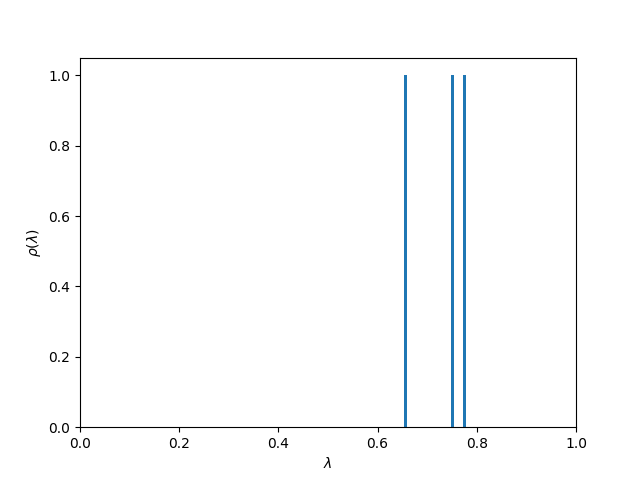
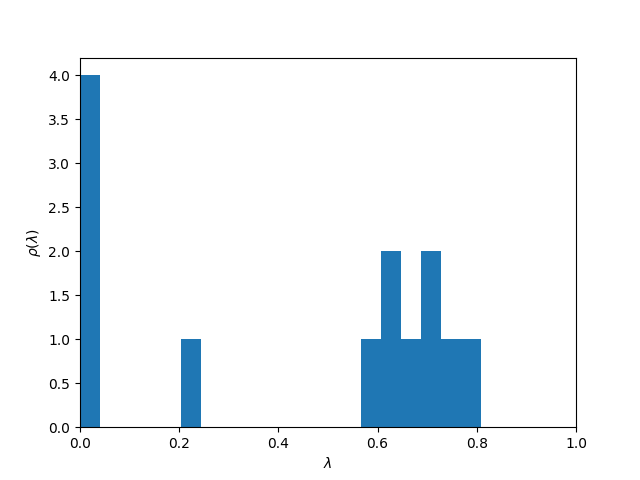
Improve Break when latching dies

diff --git a/lambda_analysis_sparse_matrices.py b/lambda_analysis_sparse_matrices.py
@@ -96,10 +96,12 @@ for iT in tqdm(range(nT)):
 
         if max_m_mu < .01:
             cpt_idle += 1
-            if cpt_idle > nT/10 and nT >= 1000:
+            if cpt_idle > nT/100 and nT >= 1000:
                 print("latchingDied")
                 l = tS[iT]
                 break
+        else:
+            cpt_idle = 0    
         ind_max_prev = ind_max
 Q = d12*l*eta
 

diff --git a/parameters.py b/parameters.py
@@ -8,7 +8,7 @@ from and their behavior
 
 # Integration
 dt = 0.5
-tSim = 2000
+tSim = 25000
 # objective : tSim = 50000
 
 # Network
@@ -25,7 +25,7 @@ a_pf = 0.00
 eps = 1.
 
 # Building network
-cm = 40
+cm = 45
 a = 0.25
 f_russo = 0.01
 
